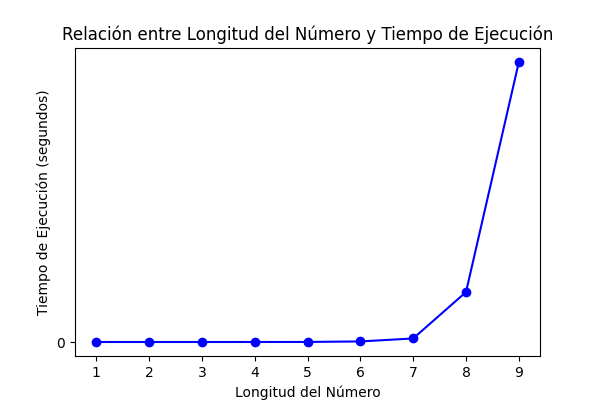
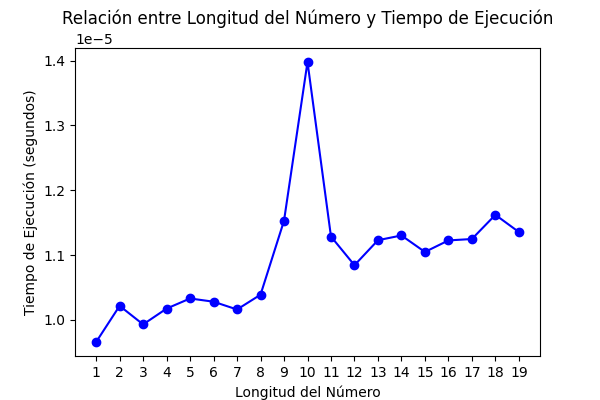
Graphs fixed

diff --git a/src/test.py b/src/test.py
@@ -120,7 +120,8 @@ def plot_performance(numeros, tiempos, filename: str, title: str, xlabel: str, y
     plt.xlabel(xlabel)
     plt.ylabel(ylabel)
 
-    plt.xticks(range(len(numeros)), [str(n) for n in numeros])
+    # Fix the X axis
+    plt.xticks(range(1, len(numeros)+1), [str(n) for n in numeros])
 
     # Mostrar el gráfico
     plt.savefig(f'{IMAGES_OUTPUT_FOLDER}/{filename}.png')
@@ -155,9 +156,11 @@ if __name__ == "__main__":
     )
 
     primes = results_df.loc[results_df['result'] == True]  # only true values
+    avgprimes = primes.groupby('order')['time'].mean()  # average per order
+
     plot_performance(
-        primes['n'],
-        primes['time'],
+        avgprimes.index,
+        avgprimes.values,
         filename='scatter_plot_primes_only_primes',
         title='Relación entre números primos y Tiempo de Ejecución',
         xlabel='n',
@@ -168,9 +171,16 @@ if __name__ == "__main__":
     #GCD
 
     
-    results_df = perf_tests(gcdlib.gcd_factorize, 10e8, nargs=2, iterations=50).sort_values(by='a', ignore_index=True)
+    results_df = perf_tests(gcdlib.gcd_euclid, primeslib.MAX_UINT, nargs=2).sort_values(by='a', ignore_index=True)
+
+    # Transform into int to represent the number of digits without zeroes 1.0 -> 1
+    results_df['order'] = results_df['order'].astype(int)
 
     avg = results_df.groupby('order')['time'].mean()  # average per order
+
+    print(avg.index)
+    print(avg.values)
+
     plot_performance(
         avg.index,
         avg.values,
